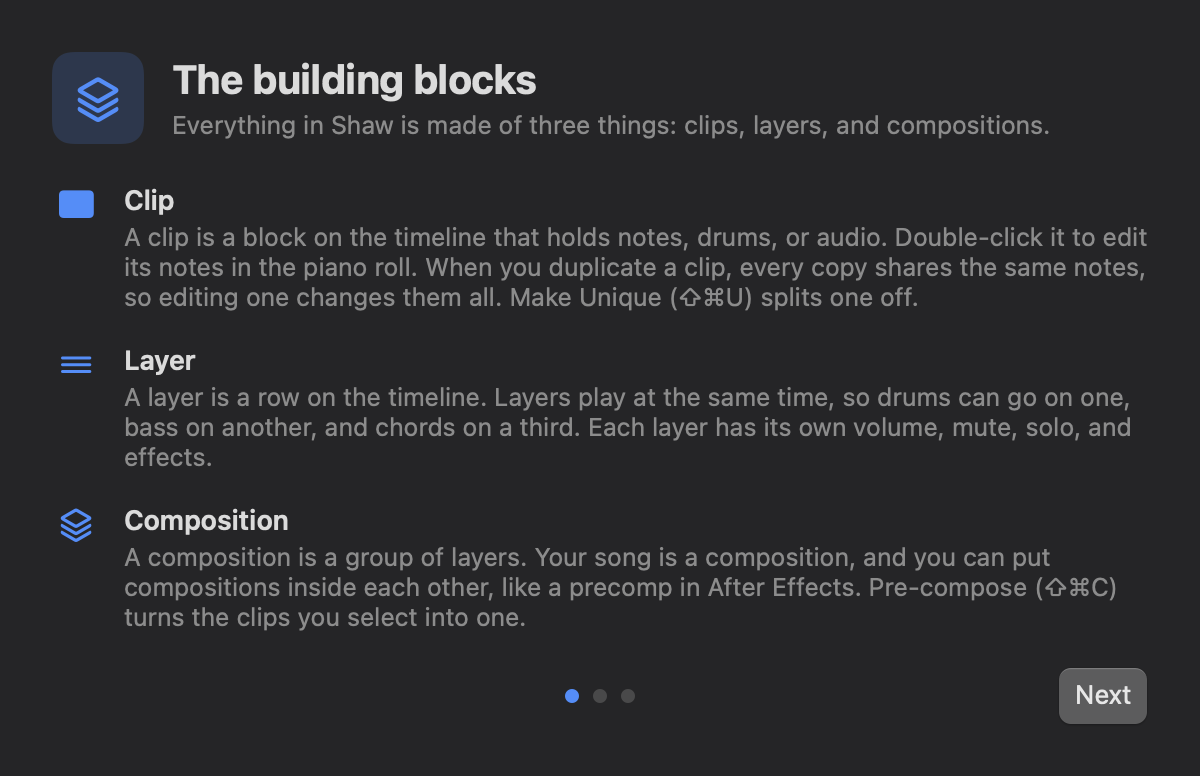
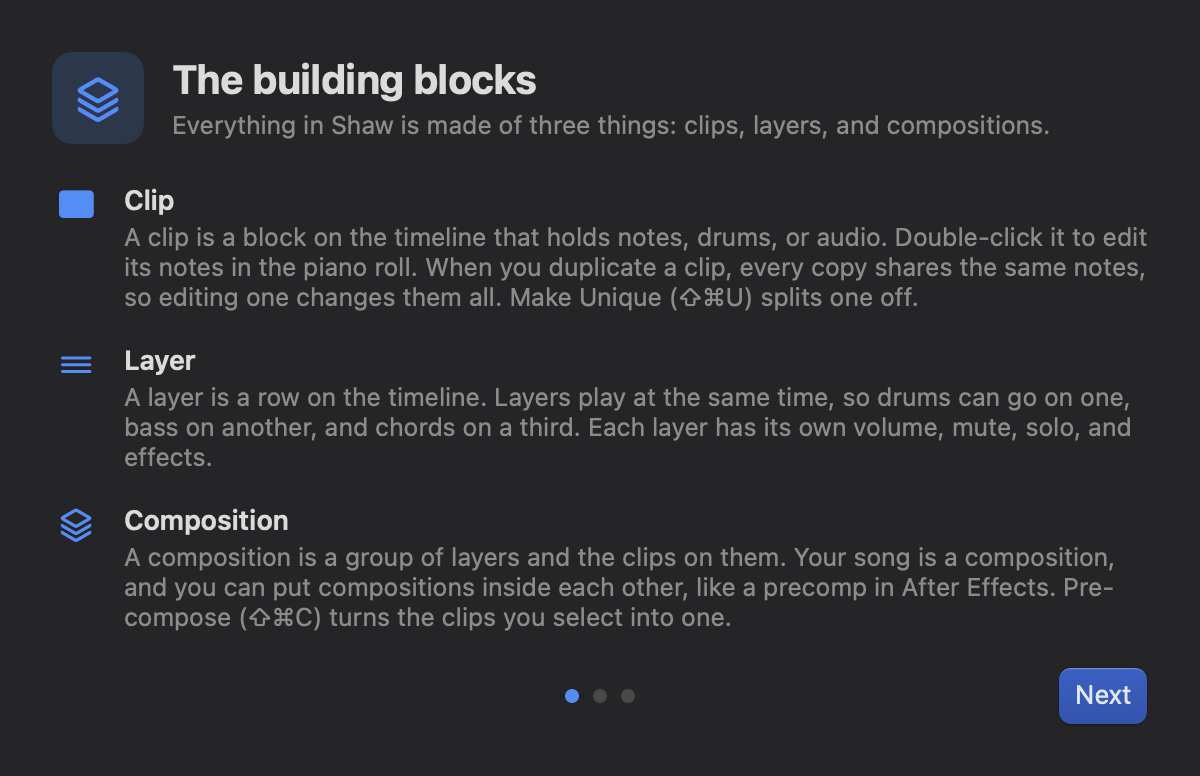
Describe a composition as layers and the clips on them

Changed region(s): [[0.0925, 0.7113, 0.925, 0.8041], [0.8633, 0.8351, 0.9558, 0.9588]]

diff --git a/Sources/Shaw/WelcomeView.swift b/Sources/Shaw/WelcomeView.swift
@@ -18,7 +18,7 @@ struct WelcomeView: View {
                 Point(icon: "line.3.horizontal", title: "Layer",
                       text: "A layer is a row on the timeline. Layers play at the same time, so drums can go on one, bass on another, and chords on a third. Each layer has its own volume, mute, solo, and effects."),
                 Point(icon: "square.stack.3d.up", title: "Composition",
-                      text: "A composition is a group of layers. Your song is a composition, and you can put compositions inside each other, like a precomp in After Effects. Pre-compose (⇧⌘C) turns the clips you select into one."),
+                      text: "A composition is a group of layers and the clips on them. Your song is a composition, and you can put compositions inside each other, like a precomp in After Effects. Pre-compose (⇧⌘C) turns the clips you select into one."),
              ]),
         Page(icon: "rectangle.split.3x1", title: "Everything happens on one timeline",
              subtitle: "There's no separate session view. Looping lives at the top of the timeline.",

diff --git a/README.md b/README.md
@@ -8,7 +8,7 @@ Shaw is a music app for the Mac that works like After Effects. I came from After
 
 - **Clip.** A block on the timeline that holds notes, drums, or audio. Double-click it to edit it. When you duplicate a clip, every copy shares the same notes.
 - **Layer.** A row on the timeline. Layers play at the same time, and each one has its own volume, mute, solo, and effects.
-- **Composition.** A group of layers. Your song is a composition, and you can put compositions inside each other, like a precomp in After Effects.
+- **Composition.** A group of layers and the clips on them. Your song is a composition, and you can put compositions inside each other, like a precomp in After Effects.
 
 ## What's different
 
